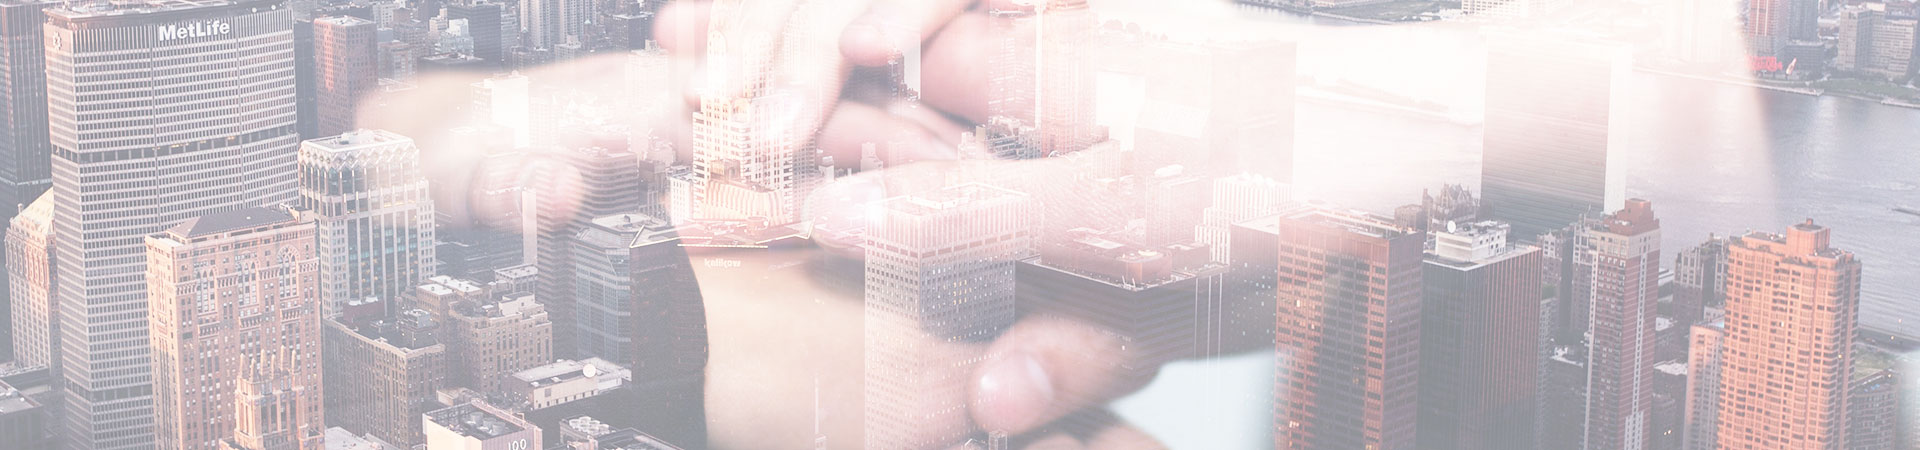
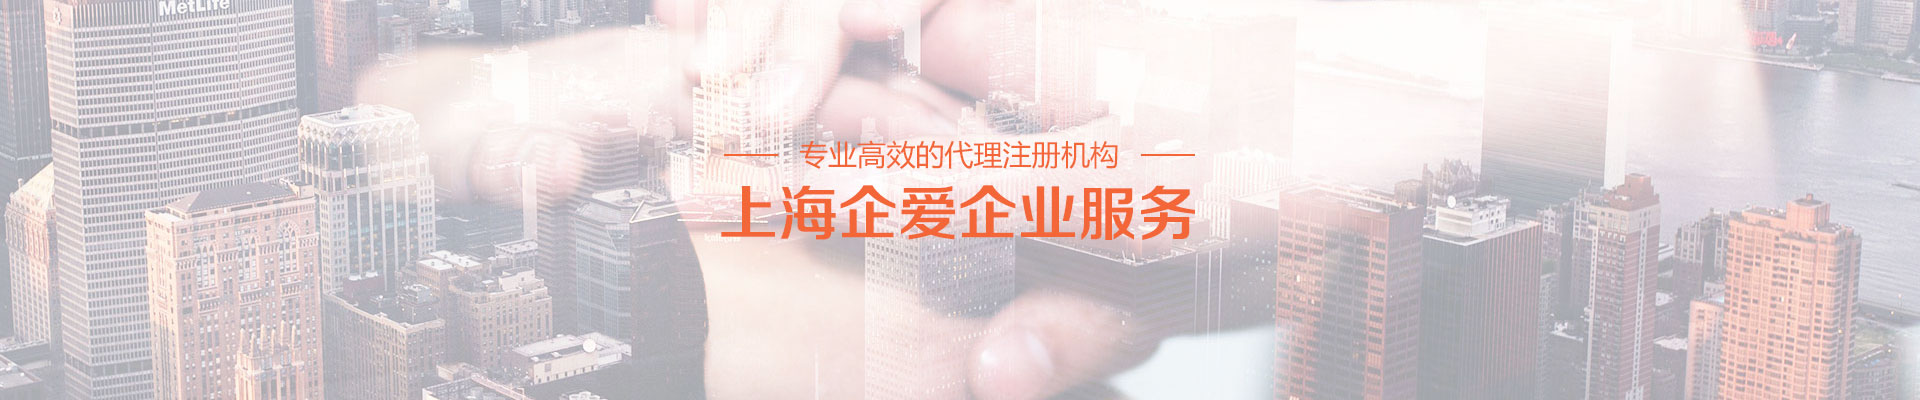
'删除所有巨幕咨询按钮'

diff --git a/css/style.css b/css/style.css
@@ -60,7 +60,7 @@ a ,p,span,h1,div,p,li{font-family:arial,"微软雅黑 Regular";}
 .navbar .nav > li > a:hover {color: #f36638;}
 
 /*banner*/
-#pageBanner {position: relative;background: url("../images/in-banner.jpg")repeat-x center top fixed;height: 350px;}
+#pageBanner {position: relative;background: url("../images/in-banner.jpg") 50% 0 repeat-x;height: 450px;}
 
 /*复用title*/
 .g_title {margin-bottom: 40px;margin-top:80px;overflow: hidden;}
@@ -209,6 +209,13 @@ a ,p,span,h1,div,p,li{font-family:arial,"微软雅黑 Regular";}
 #special03 .sp3_cont2 h2{color: #444444;line-height: 65px;font-size: 18px;font-weight: bold;}
 #special03 .sp3_cont2 p{color: #666;line-height: 27px;font-size: 14px;}
 
+/*公司转让*/
+#tra {overflow: hidden; position: relative;}
+#tra .tra2_cont {overflow: hidden; position: relative;padding: 80px 0;}
+#tra .tra2_cont li{font-size: 18px;color: #444;line-height: 45px;}
+#tra .tra3_cont {overflow: hidden;position: relative;margin: 30px 0;}
+#tra .tra3_cont a{height: 45px;width: 150px;display: block;border: 1px solid #f36638;margin: 50px auto;line-height: 45px;font-size: 14px;color: #f36638;border-radius: 10px;}
+#tra .tra3_cont a:hover{background-color: #f36638;color: #FFFFFF;}
 
 
 /*移动端样式*/

diff --git a/js/main.js b/js/main.js
@@ -27,7 +27,7 @@ window.onload = function () {
 };
 
 // 滚动导航
-$(window).scroll(function(){
+/*$(window).scroll(function(){
     var scrollTop = $(window).scrollTop();
     if(scrollTop > 66)
         $('#navBer').css({position:'fixed',top:'0px'}).stop().animate({'opacity':'0.8'},400);
@@ -43,7 +43,7 @@ $('#navBer').hover(function(){
     if(scrollTop > 66){
         $('#navBer').stop().animate({'opacity':'0.8'},400);
     }
-});
+});*/
 
 $(document).ready(function () {
     $("#navBer .bar_a").click(function () {

diff --git a/cus.html b/cus.html
@@ -113,7 +113,7 @@
 </nav>
 <!--banner-->
 <div class="jumbotron hidden-xs" id="pageBanner">
-    <p><a class="btnss ban_btn text-center" href="#" target="_blank">咨询客服</a></p>
+    <p class="abc1"></p>
 </div>
 <!--移动端banner-->
 <div class="jumbotron hidden-sm hidden-md hidden-lg"></div>

diff --git a/news/news1.html b/news/news1.html
@@ -110,7 +110,7 @@
 </nav>
 <!--banner-->
 <div class="jumbotron hidden-xs" id="pageBanner">
-    <p><a class="btnss ban_btn text-center" href="#" target="_blank">咨询客服</a></p>
+    <p class="abc1"></p>
 </div>
 <!--移动端banner-->
 <div class="jumbotron hidden-sm hidden-md hidden-lg"></div>

diff --git a/news/news2.html b/news/news2.html
@@ -110,7 +110,7 @@
 </nav>
 <!--banner-->
 <div class="jumbotron hidden-xs" id="pageBanner">
-    <p><a class="btnss ban_btn text-center" href="#" target="_blank">咨询客服</a></p>
+    <p class="abc1"></p>
 </div>
 <!--移动端banner-->
 <div class="jumbotron hidden-sm hidden-md hidden-lg"></div>

diff --git a/news/news3.html b/news/news3.html
@@ -110,7 +110,7 @@
 </nav>
 <!--banner-->
 <div class="jumbotron hidden-xs" id="pageBanner">
-    <p><a class="btnss ban_btn text-center" href="#" target="_blank">咨询客服</a></p>
+    <p class="abc1"></p>
 </div>
 <!--移动端banner-->
 <div class="jumbotron hidden-sm hidden-md hidden-lg"></div>

diff --git a/news/news4.html b/news/news4.html
@@ -110,7 +110,7 @@
 </nav>
 <!--banner-->
 <div class="jumbotron hidden-xs" id="pageBanner">
-    <p><a class="btnss ban_btn text-center" href="#" target="_blank">咨询客服</a></p>
+    <p class="abc1"></p>
 </div>
 <!--移动端banner-->
 <div class="jumbotron hidden-sm hidden-md hidden-lg"></div>

diff --git a/news/news5.html b/news/news5.html
@@ -110,7 +110,7 @@
 </nav>
 <!--banner-->
 <div class="jumbotron hidden-xs" id="pageBanner">
-    <p><a class="btnss ban_btn text-center" href="#" target="_blank">咨询客服</a></p>
+    <p class="abc1"></p>
 </div>
 <!--移动端banner-->
 <div class="jumbotron hidden-sm hidden-md hidden-lg"></div>

diff --git a/news/news6.html b/news/news6.html
@@ -110,7 +110,7 @@
 </nav>
 <!--banner-->
 <div class="jumbotron hidden-xs" id="pageBanner">
-    <p><a class="btnss ban_btn text-center" href="#" target="_blank">咨询客服</a></p>
+    <p class="abc1"></p>
 </div>
 <!--移动端banner-->
 <div class="jumbotron hidden-sm hidden-md hidden-lg"></div>

diff --git a/service/bank.html b/service/bank.html
@@ -110,7 +110,7 @@
 </nav>
 <!--banner-->
 <div class="jumbotron hidden-xs" id="pageBanner">
-    <p><a class="btnss ban_btn text-center" href="#" target="_blank">咨询客服</a></p>
+    <p class="abc1"></p>
 </div>
 <!--移动端banner-->
 <div class="jumbotron hidden-sm hidden-md hidden-lg"></div>

diff --git a/service/brand.html b/service/brand.html
@@ -110,7 +110,7 @@
 </nav>
 <!--banner-->
 <div class="jumbotron hidden-xs" id="pageBanner">
-    <p><a class="btnss ban_btn text-center" href="#" target="_blank">咨询客服</a></p>
+    <p class="abc1"></p>
 </div>
 <!--移动端banner-->
 <div class="jumbotron hidden-sm hidden-md hidden-lg"></div>

diff --git a/service/check.html b/service/check.html
@@ -110,7 +110,7 @@
 </nav>
 <!--banner-->
 <div class="jumbotron hidden-xs" id="pageBanner">
-    <p><a class="btnss ban_btn text-center" href="#" target="_blank">咨询客服</a></p>
+    <p class="abc1"></p>
 </div>
 <!--移动端banner-->
 <div class="jumbotron hidden-sm hidden-md hidden-lg"></div>
